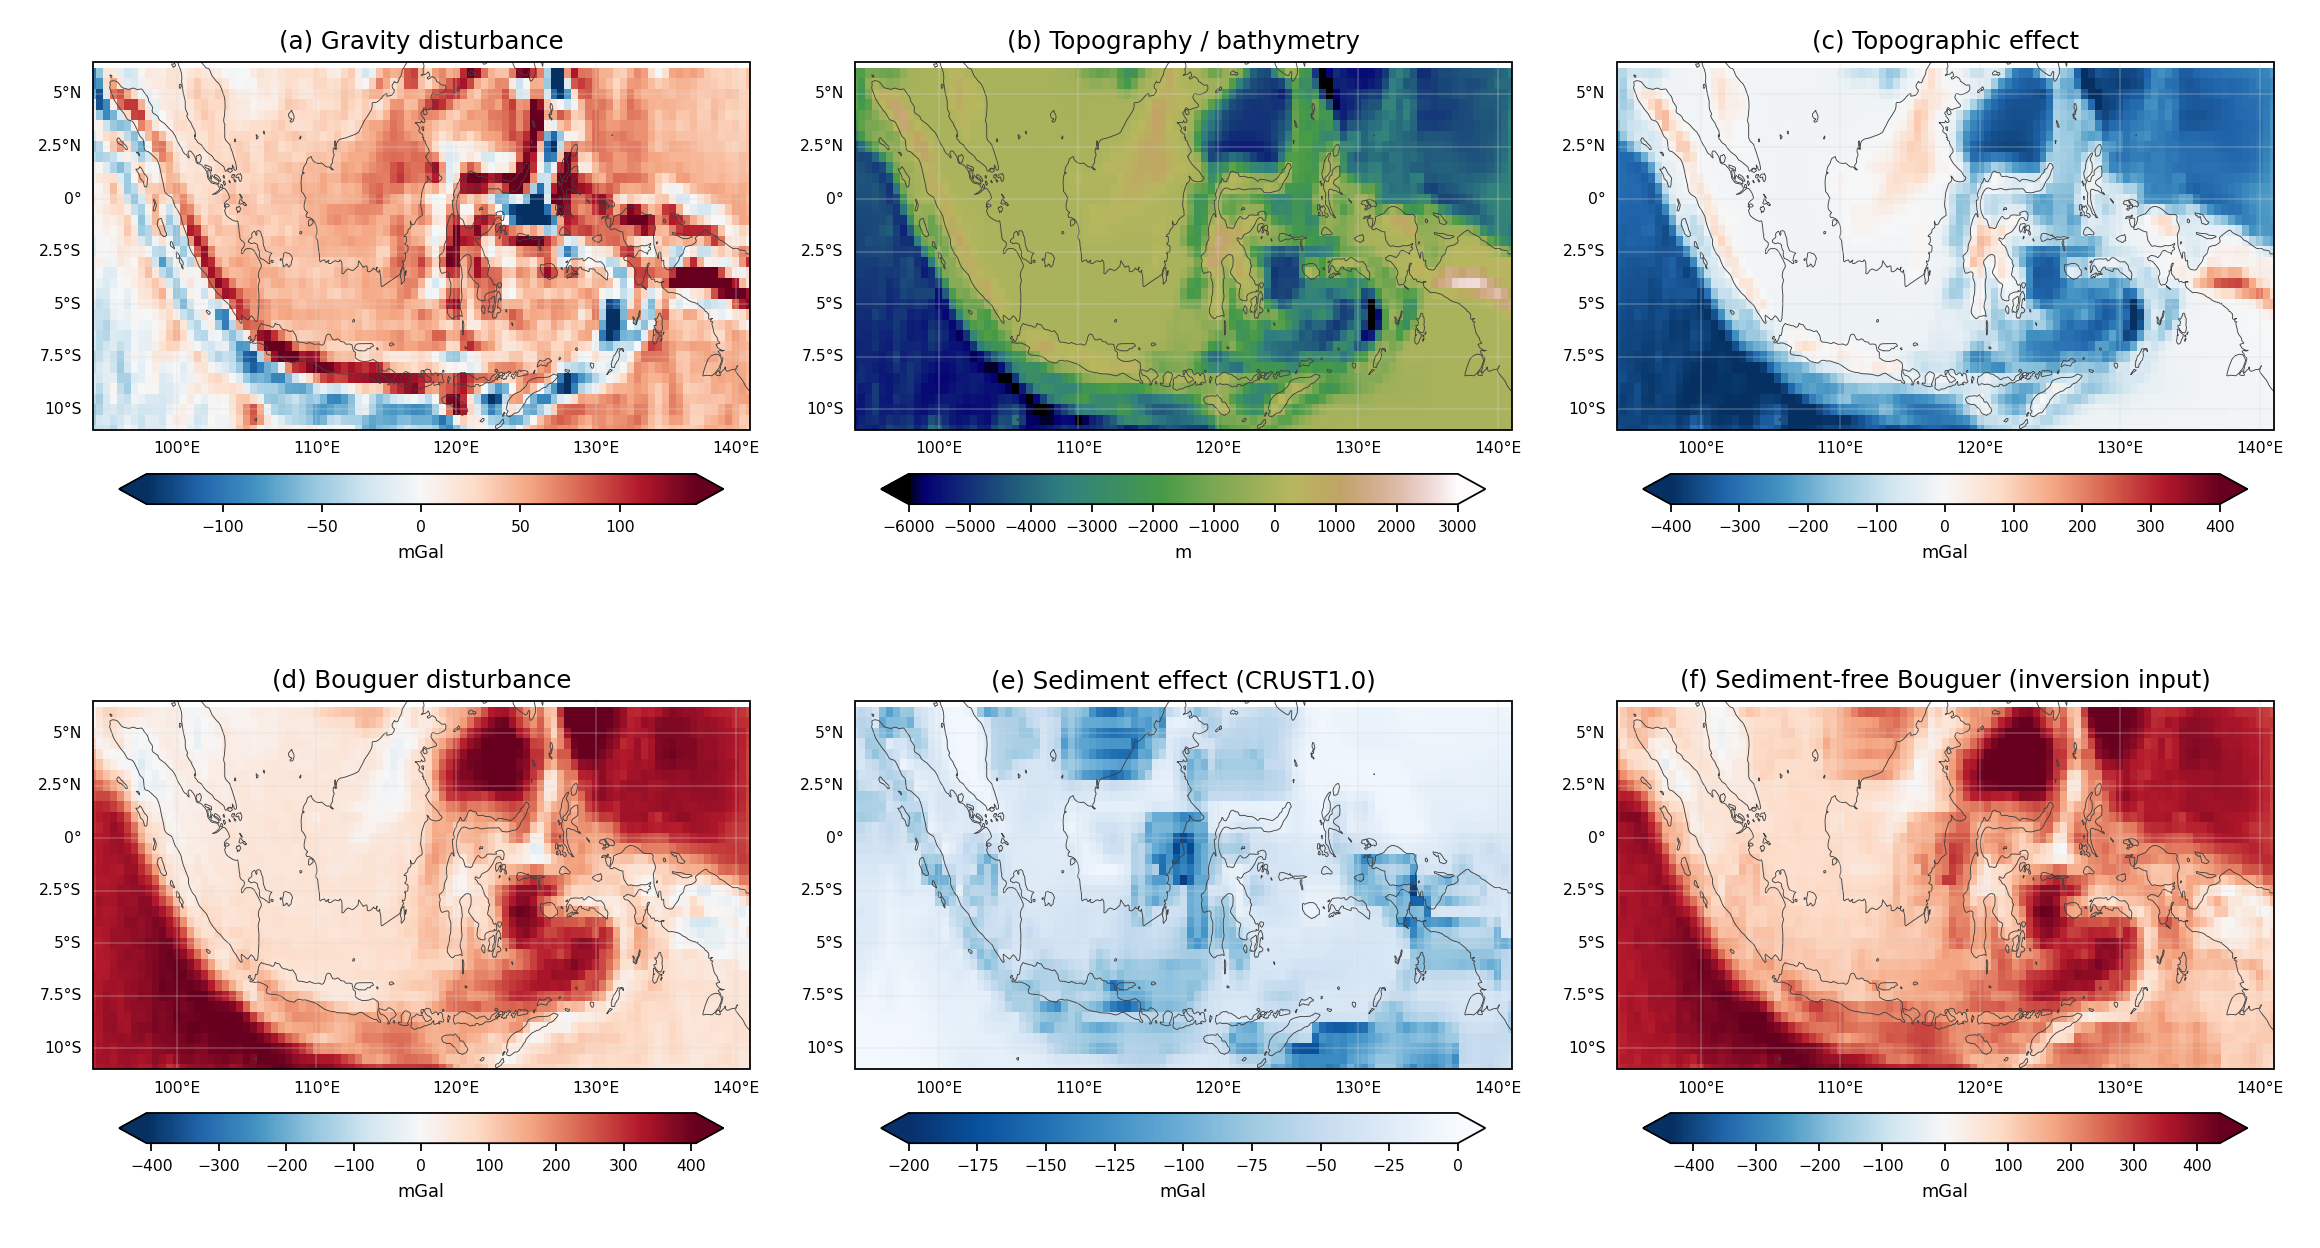
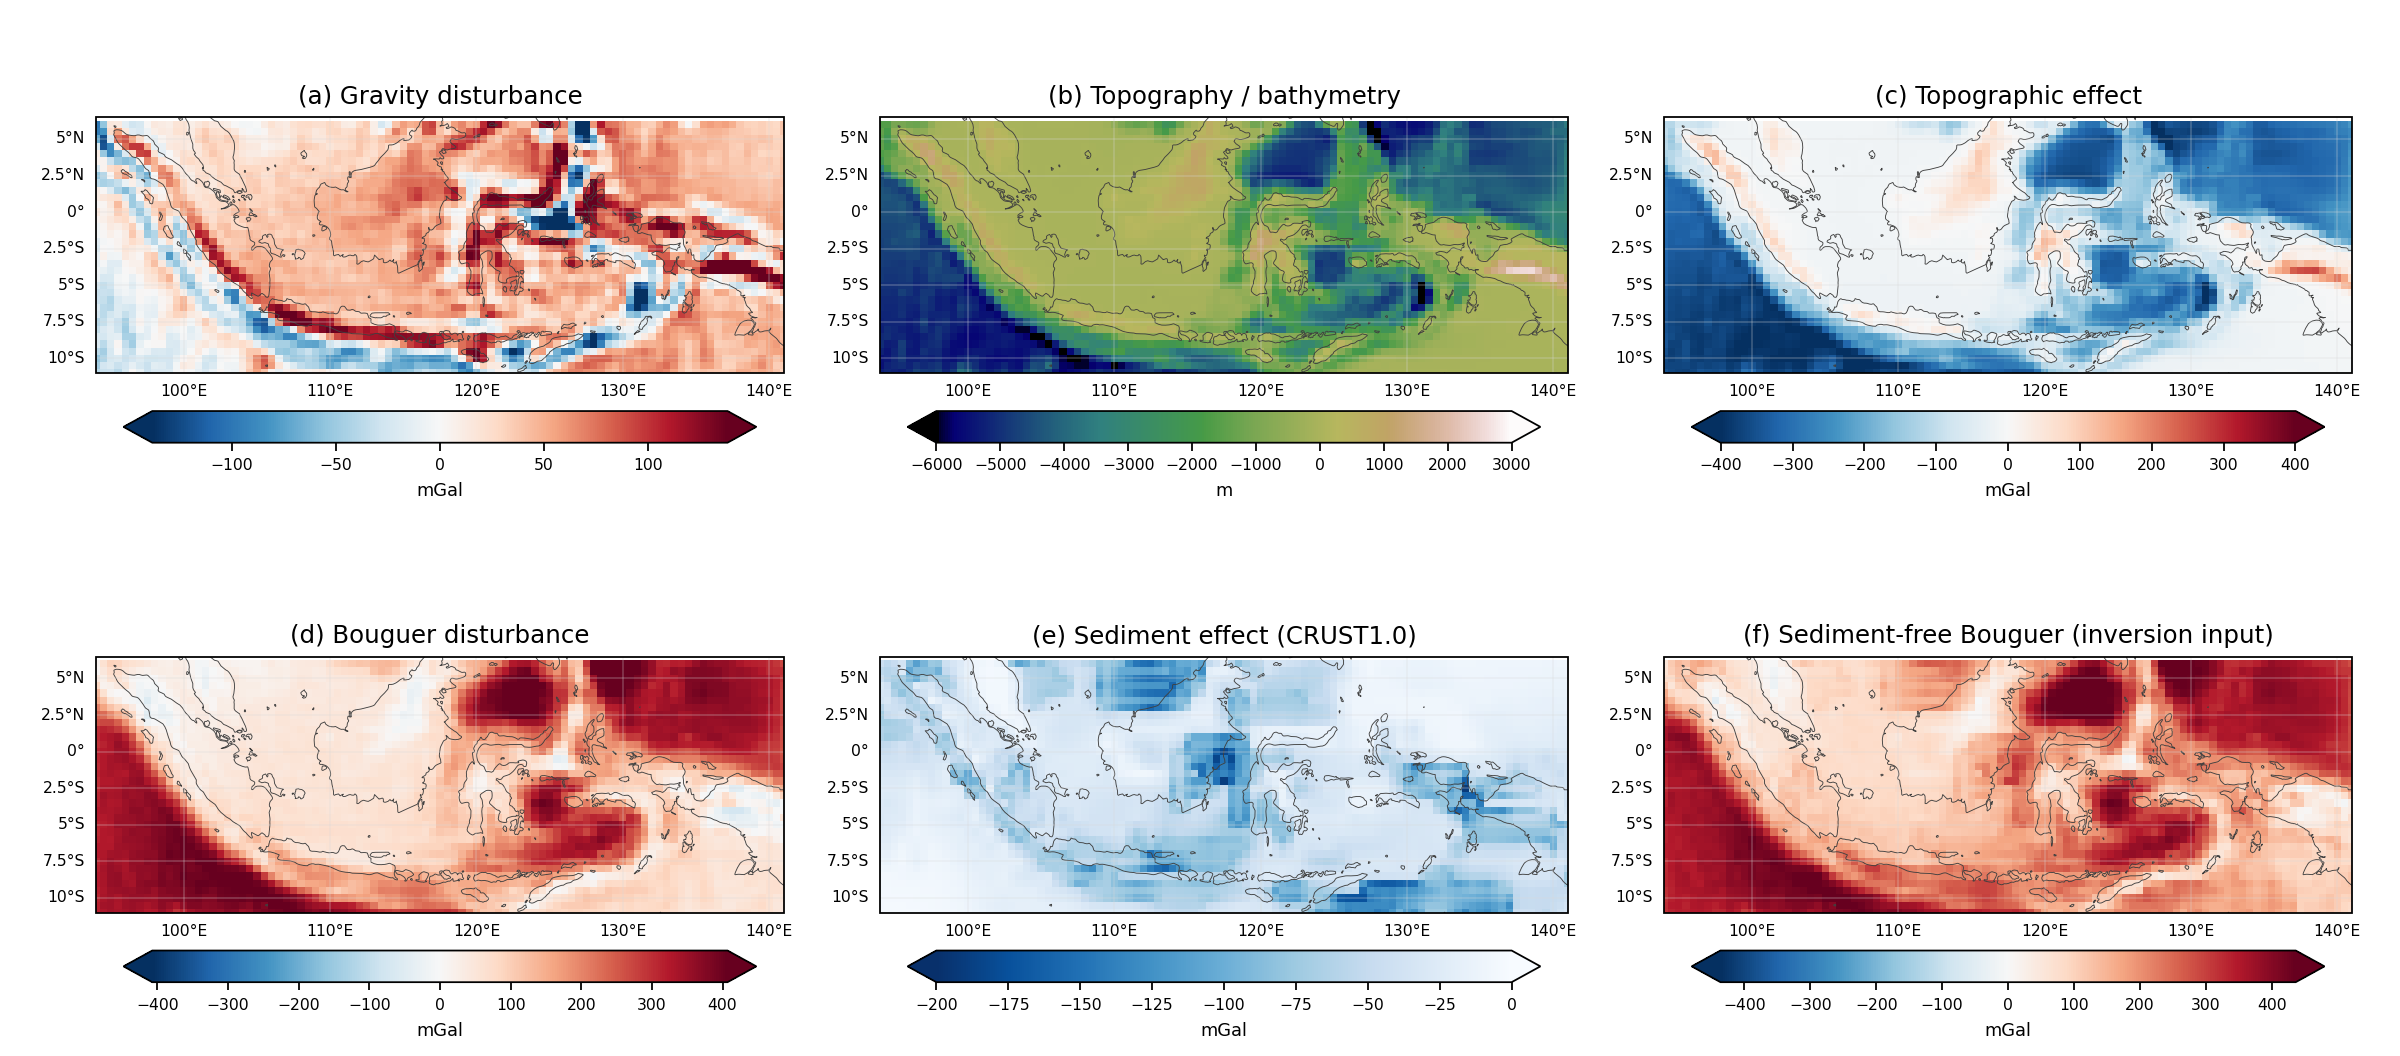
Fix processing-chain figure aspect (natural, no vertical stretch)
Use a natural box_aspect (lat-span/lon-span) on each of the six map panels
instead of aspect='auto', so the maps are undistorted.

diff --git a/moho_indonesia/plot_processing_chain.py b/moho_indonesia/plot_processing_chain.py
@@ -26,12 +26,15 @@ import run_real             # noqa: E402
 from calibrate import sediment_effect    # noqa: E402
 
 REGION = [94, 141, -11, 6.5]
+# Natural map proportions (latitude span / longitude span) so panels are undistorted.
+BOX_RATIO = (REGION[3] - REGION[2]) / (REGION[1] - REGION[0])
 
 
 def _panel(fig, pos, lon, lat, field, title, cmap, unit, vlim=None):
     ax = fig.add_subplot(pos, projection=ccrs.PlateCarree())
     ax.set_extent(REGION, crs=ccrs.PlateCarree())
-    ax.set_aspect("auto")
+    ax.set_aspect("auto")            # fill a box whose shape is set naturally below
+    ax.set_box_aspect(BOX_RATIO)
     if vlim is None:
         v = float(np.nanpercentile(np.abs(field), 98))
         vmin, vmax = -v, v
@@ -64,9 +67,9 @@ def main():
     sed_eff = sediment_effect(lon, lat)
     sed_free = bouguer - sed_eff
 
-    fig = plt.figure(figsize=(14.5, 7.8))
-    gs = fig.add_gridspec(2, 3, hspace=0.32, wspace=0.16,
-                          left=0.04, right=0.98, bottom=0.05, top=0.95)
+    fig = plt.figure(figsize=(15, 6.6))
+    gs = fig.add_gridspec(2, 3, hspace=0.28, wspace=0.14,
+                          left=0.04, right=0.98, bottom=0.04, top=0.95)
     _panel(fig, gs[0, 0], lon, lat, disturbance, "(a) Gravity disturbance", "RdBu_r", "mGal")
     _panel(fig, gs[0, 1], lon, lat, topo, "(b) Topography / bathymetry", "gist_earth", "m", vlim=(-6000, 3000))
     _panel(fig, gs[0, 2], lon, lat, topo_eff, "(c) Topographic effect", "RdBu_r", "mGal")
